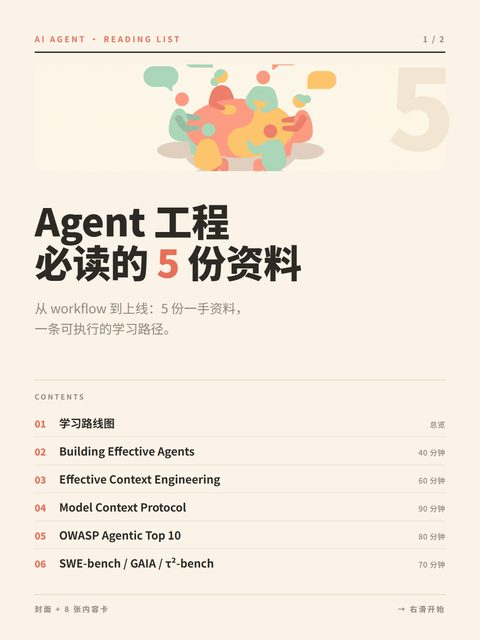
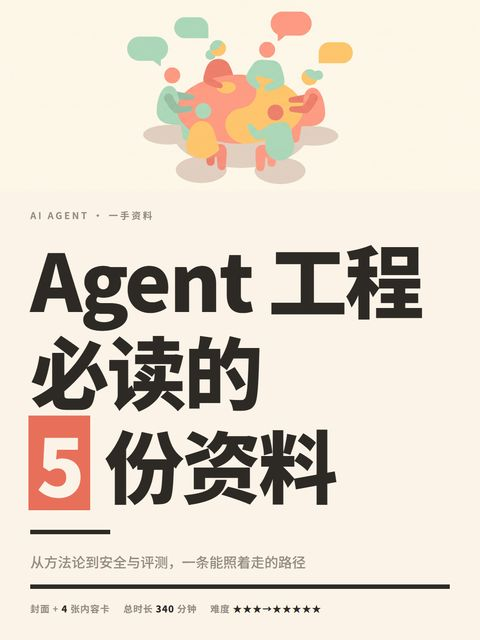
STYLE-06 补 poster token，图鉴封面从 cover 改成 poster

diff --git a/docs/style-gallery.md b/docs/style-gallery.md
@@ -24,14 +24,15 @@
 
 ### `06` 插画风
 
-奶油底 + 珊瑚橙 + 大圆角，卡片顶部配扁平矢量插画。亲和力最强的一套。
+奶油底 + 珊瑚橙 + 大圆角，顶部一条扁平矢量插画带 + 墨色巨标题。亲和力最强的一套，
+走 `poster` 版式，所以缩略图里也压得住。
 
 <table>
 <tr>
 <td><img src="images/style-06-cover.jpg" alt="STYLE-06 封面" width="300"></td>
 <td><img src="images/style-06-card.jpg" alt="STYLE-06 内容卡" width="300"></td>
 </tr>
-<tr><td align="center"><sub>封面 + 插画带</sub></td><td align="center"><sub>resource 资料详解</sub></td></tr>
+<tr><td align="center"><sub>poster + 插画带</sub></td><td align="center"><sub>resource 资料详解</sub></td></tr>
 </table>
 
 ### `10` 干货大字报
@@ -201,7 +202,11 @@ token 文件也留着当记录，但**状态是作废，编号不复用，不要
 | 底色 | 纸底即可 | 走极端明度，且要带质感（`posterTexture`） |
 
 判断标准：**这张图的任务是「告诉人里面有什么」还是「让人点进来」**。
-`10`–`15` 用 `poster`，`01`/`06`/`07`–`09` 用 `cover`。
+`06`、`10`–`15` 用 `poster`，`01`/`07`–`09` 用 `cover`。
+
+> `06` 早期也用 `cover`，图鉴里看着就像一张目录页 —— 六行目录 + 统计行 + 提示行，
+> 缩略图尺寸下完全没有拦截力。改成 `poster` 之后（插画带 + 巨标题 + 一处强调）才是这套风格该有的样子。
+> 内容卡仍是 `resource`，一poster 一正文本来就是两套逻辑。
 
 ## 怎么选
 

diff --git a/references/style-registry.md b/references/style-registry.md
@@ -49,6 +49,10 @@
 否则白底配米白字会糊成一片 —— 这是实测踩过的坑。
 反之 12 的封面是饱和橙，连发九张正文会刺眼，所以它的 `colors.paper` 单独降成了浅橙 `#FFEFD9`。
 
+`06` 原本只有 `cover`，2026-10-13 补齐了 `poster` token（见 `STYLE-06-illustration.md`）。
+**`06` 出套图时封面走 `poster`**，别再用 `cover` —— 六行目录在缩略图里读起来就是一张目录页。
+现在支持 poster 的是 `06` 和 `10`–`15`；仍然只有 cover 的是 `01` 和 `07`–`09`。
+
 竖版的诚实限制：横图那套「标题字高占画面 1/3」是按 1500×600 总结的。1080×1440 的内容列只有
 936px 宽，每行最多 4 个中文字，字号封顶约 230px。所以竖版靠**行数 + 对比**堆冲击力，不是无限放大字号。
 中文行高必须 ≥1.16 —— 从横图搬来的 1.04 会让三行字糊成一团。
